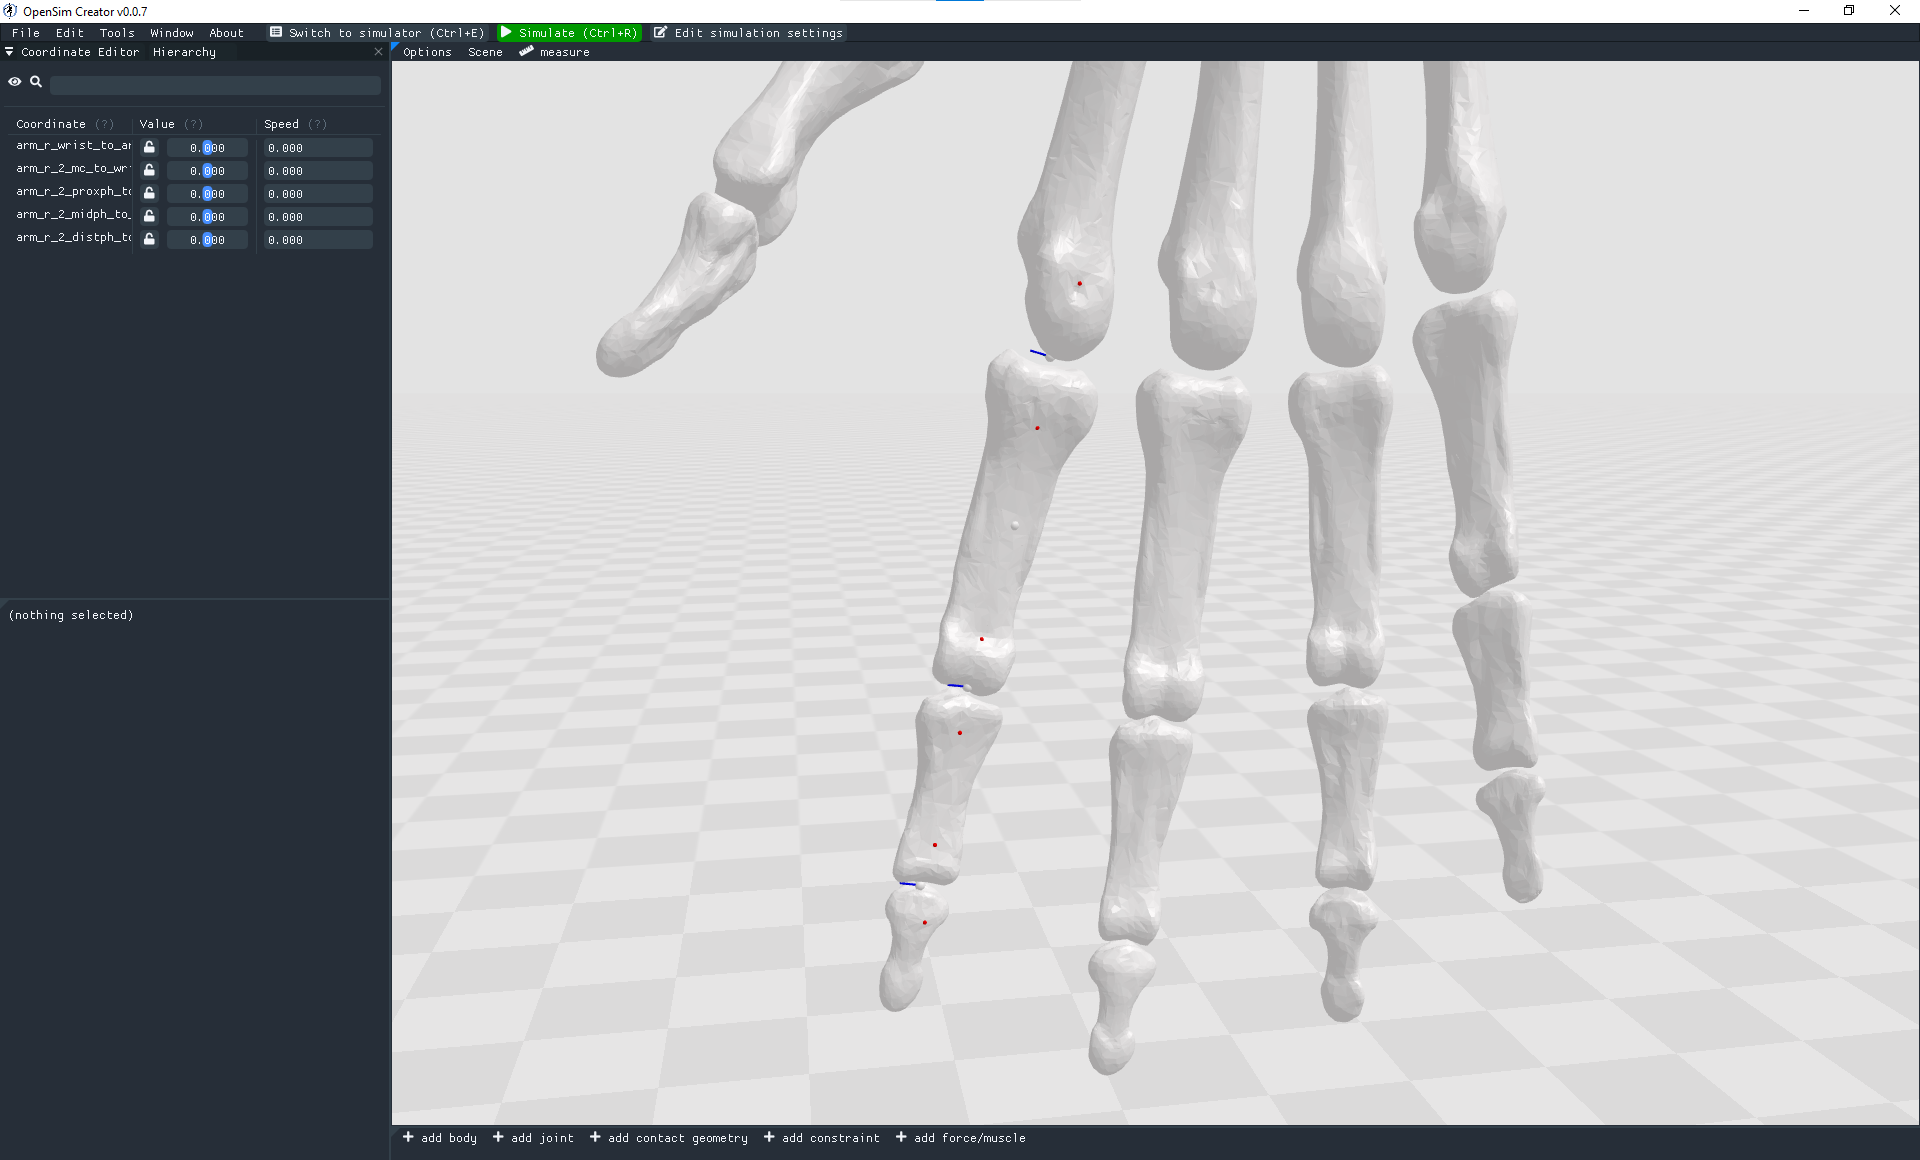
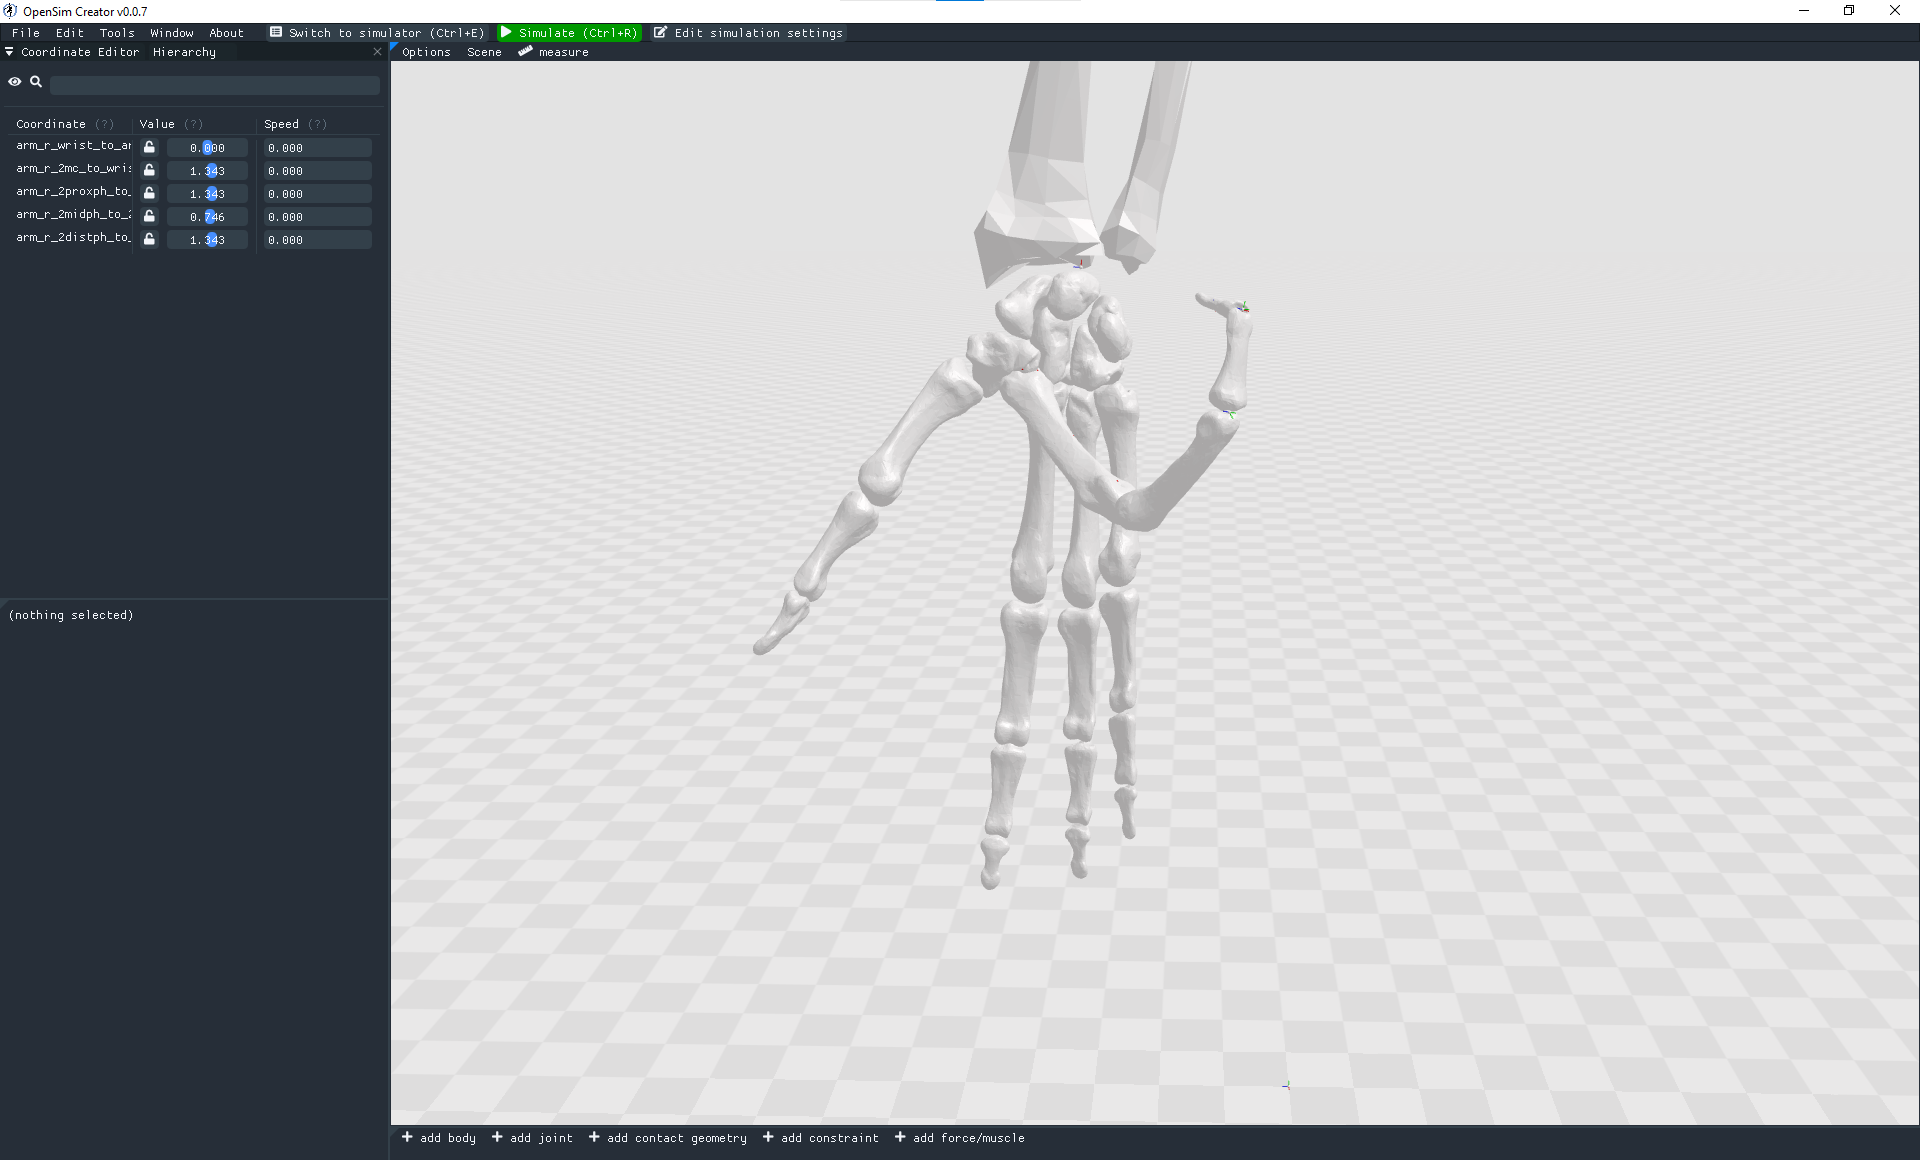
Fleshed out step 5

diff --git a/docs/source/tut4.rst b/docs/source/tut4.rst
@@ -212,17 +212,37 @@ The stations should be placed in similar position to the figure below. These sta
 Step 5: Convert to an OpenSim Model
 -----------------------------------
 
-TODO guide for converting to an opensim model
+Now that we have added meshes, bodies, joints, and points of interest into the mesh importer, we are now (finally 🎉) ready to import the scene into an ``osim``, check for any basic issues, and perform any ``osim``-specific steps.
 
-* Instruct to click the button
-* Advise running some basic simulations on the model
-* Advise playing around with the joint coordinates a little bit
-* Advise saving as an osim and opening in the official OpenSim GUI
-* Screenshot of some basic simulation running with the muscle-less model
+To convert and check the model:
+
+* Press the ``Convert to OpenSim model`` button:
+
+  * This imports the mesh importer scene into the ``osim`` editor
+  * Your progress in the mesh importer is not lost, if you reopen the mesh importer you should still be able to see your scene as it was before converting it
+
+* Experiment with changing model coordinates:
+
+  * This should move parts of the finger
+
+* Run a basic forward-dynamic simulation of the model
+
+  * Press ``Ctrl+R`` to start simulating the model, or click the ``Simulate`` button
+  * The arm should flop around in the scene. **Unassigned** (:red:`red`) meshes will be anchored to ground.
+  * This is a basic check to ensure the model at least simulates (even if it's not a particularly interesting simulation)
+
+
+You should be able to see the meshes, see that the joints are rotating (somewhat) correctly, and see the stations. If there are any problems, then return to the mesh importer and fix things.
+
+.. figure:: _static/tut4_after-importing-marked-hand.png
+   :width: 60%
+
+   The ``osim`` model created from the mesh importer. Editing joint coordinates and simulating the model is a quick way to check if joint centers are correctly oriented. Here, you can see that the finger-to-wrist joint is off. This was fixed by returning to the mesh importer and reorienting that joint center.
 
 
 Step 6: Add Muscle Paths
 ------------------------
+
 
 TODO guide for adding muscle paths into the model
 
